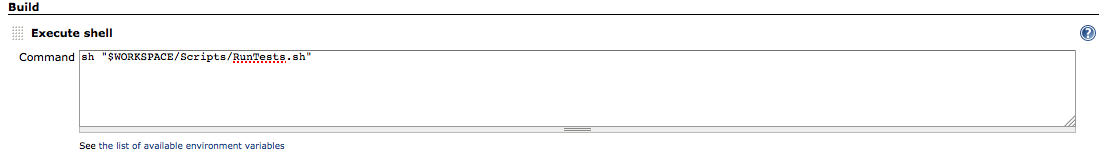
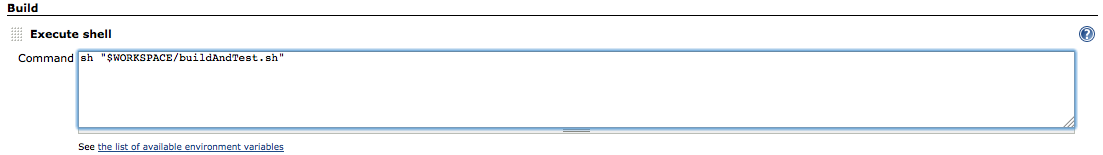
added gitignore, Scripts and updated instructions

diff --git a/README.md b/README.md
@@ -90,35 +90,23 @@ Pre Jenkins Setup
 To do CI with Jenkins you will need to setup some scripts that manage building and testing from the command line. Lucky us,
 I have included those scripts for you.
 
-### Makefile
-
-Put this [Makefile](https://raw.github.com/gabriel/gh-unit/master/Examples/MyTestable-iOS/Makefile) in your project root.
-
-```MakeFile
-default:
-	#Set default make action here
-	# xcodebuild -target Tests -configuration MyMainTarget -sdk iphonesimulator build	
-
-clean:
-	-rm -rf build/*
-
-test:
-	GHUNIT_CLI=1 xcodebuild -target GHUnitTest -configuration Debug -sdk iphonesimulator build	
-
-copytestimages:
-  #Commented out for simplicity sake
-	#../../Scripts/CopyTestImages.sh
-```
-
 ### Scripts
 
 Copy the ```Scripts``` folder from this repo into the root of your project.
 
+Move the script ```buildAndTest.sh``` and ```MakeFile``` to the root folder of your project:
+
+```sh
+mv Scripts/buildAndTest.sh .
+mv Scripts/Makefile .
+```
 ### Add a Script step to the Build Target GHUnitTest
 
 Add this ```sh "${PROJECT_DIR}/Scripts/RunTests.sh"```
 
 ![Run Script](/interlock/barcampyxe-ios-ut-ci/raw/master/images/run_script.png)
+
+
 
 New Jenkins Job
 ---------------
@@ -143,10 +131,16 @@ Use the option ```Poll SCM``` with the settings ```* * * * *```
 ### Add Build Step
 
 ```sh
-sh "$WORKSPACE/Scripts/buildAndTest.sh"
+sh "$WORKSPACE/buildAndTest.sh"
 ```
 
 ![Build Step](/interlock/barcampyxe-ios-ut-ci/raw/master/images/jenkins_build_step.png)
+
+### JUnit Report
+
+```build/test-results/*.xml```
+
+![JUnit](/interlock/barcampyxe-ios-ut-ci/raw/master/images/jenkins_junit.png)
 
 Jenkins CI
 ----------
